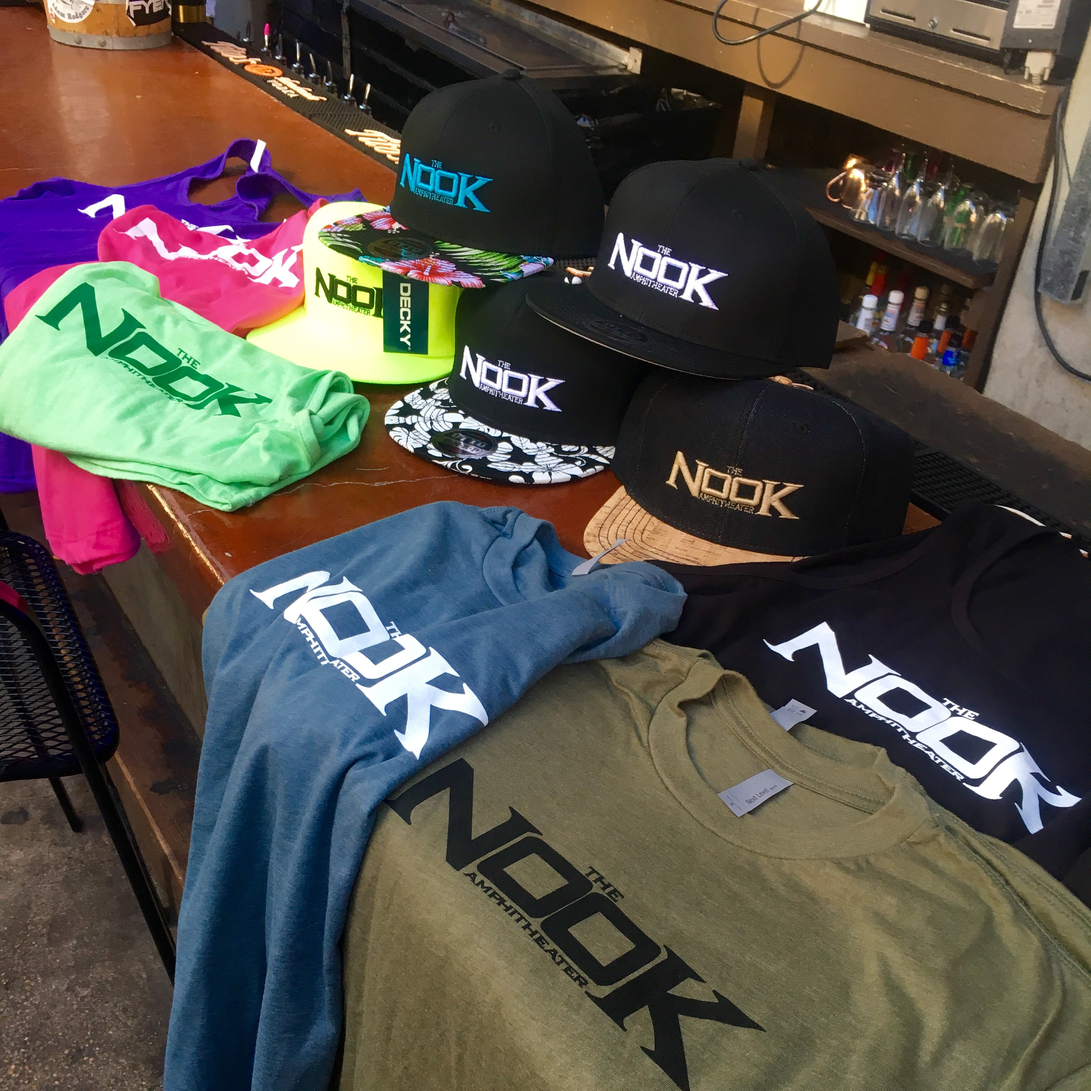
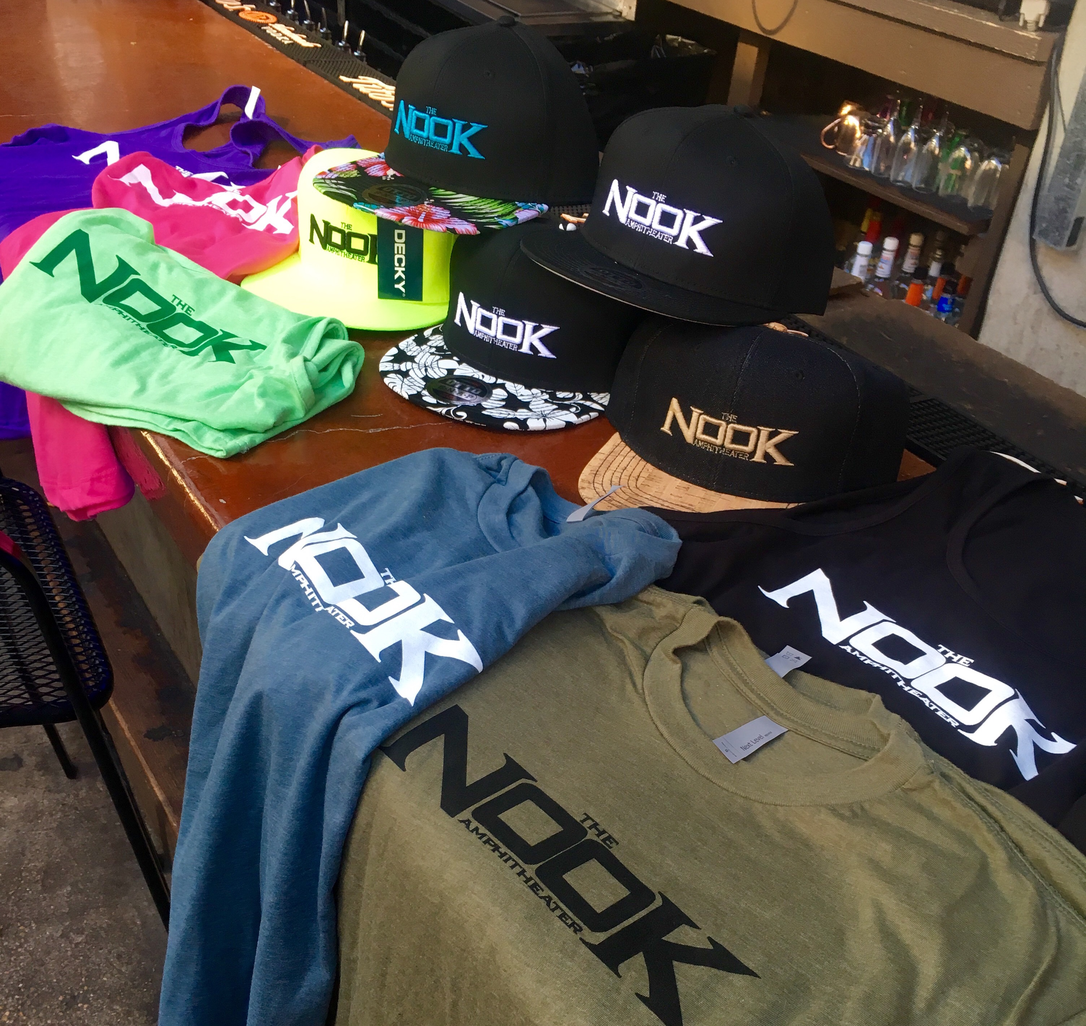
added images

diff --git a/apparel.html b/apparel.html
@@ -89,6 +89,9 @@
                     <div class="col-md-6">
                         <img class="img-responsive img-border-left" src="img/Minibar.jpg" alt="Minibar, Shirts, Custom">
                     </div>
+                    <div class="col-md-6">
+                        <img class="img-responsive img-border-right" src="img/nook.jpg" alt="Nook, Shirts, Hats, Custom">
+                    </div>
                 </div>
             </div>
         </div>
